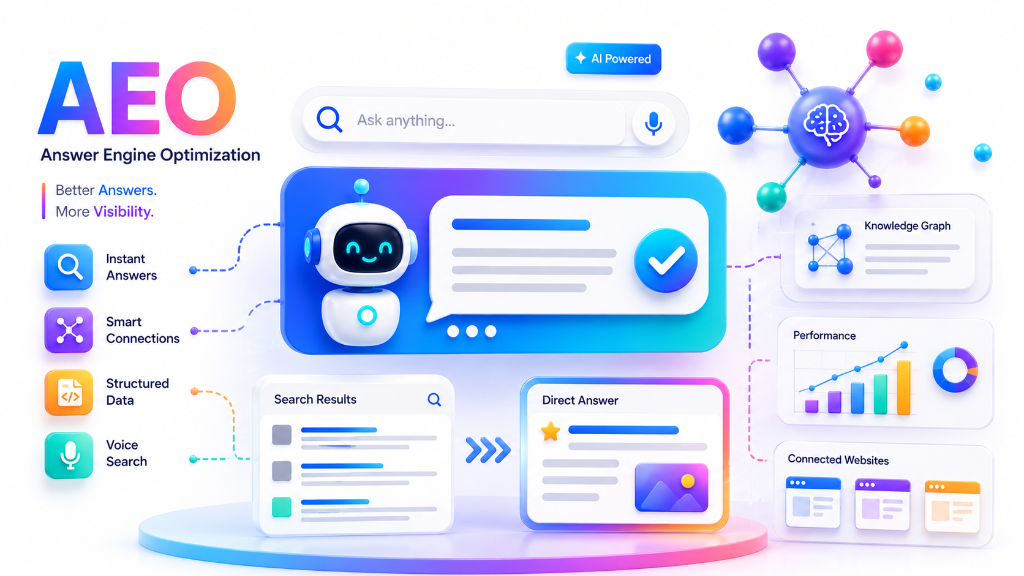
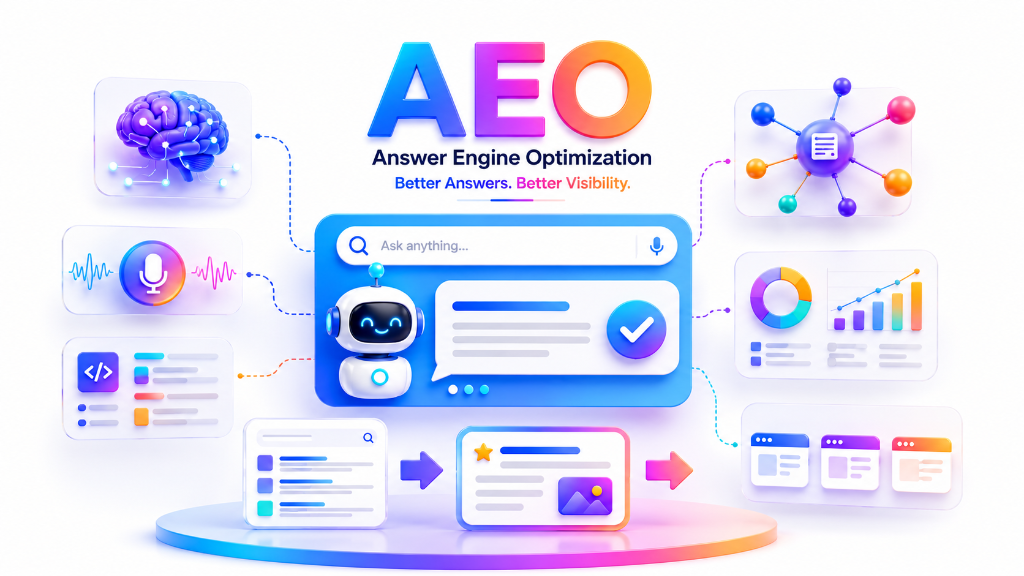
feat: add YouTube SEO and YouTube Ads visuals, update mobile subservices graphics, and fix services dynamic route 404

diff --git a/src/app/services/[id]/page.js b/src/app/services/[id]/page.js
@@ -2,7 +2,7 @@
 
 import React, { useState, useEffect, useRef, use } from "react";
 import Link from "next/link";
-import { useRouter } from "next/navigation";
+import { useRouter, useParams } from "next/navigation";
 import Header from "../../components/Header";
 import GlobalFooter from "../../components/GlobalFooter";
 // Crisp Inline SVG Logo Component for Footer
@@ -478,7 +478,7 @@ const SERVICES_DETAIL_DATA = {
     bannerTitle: "YouTube SEO Company in Hyderabad",
     bannerDesc: "Dominate video recommendation algorithms. We optimize metadata, playlists, descriptions, and closed captions to rank your channel organically.",
     bannerBadge: "✓ YouTube Search Domination | ⭐ Rated 5/5 by Creators & Brands",
-    heroVisual: "/images/hero/youtube-seo.png",
+    heroVisual: "/images/hero/youtube-seo.jpg",
     subtypesTitle: "",
     subtypesDesc: "",
     row1Image: "https://images.unsplash.com/photo-1611162617213-7d7a39e9b1d7?auto=format&fit=crop&w=800&q=80",
@@ -501,7 +501,7 @@ const SERVICES_DETAIL_DATA = {
     bannerTitle: "YouTube Ads Management Agency in Hyderabad",
     bannerDesc: "Build and scale high-ROAS visual video campaigns. We manage scripthooks, precise channel placements, and landing page conversion funnels.",
     bannerBadge: "✓ High-ROI YouTube Ads Setup | ⭐ Rated 5/5 by E-commerce Brands",
-    heroVisual: "/images/hero/youtube-ads.png",
+    heroVisual: "/images/hero/youtube-ads.jpg",
     subtypesTitle: "",
     subtypesDesc: "",
     row1Image: "https://images.unsplash.com/photo-1551836022-8b2858c9c69b?auto=format&fit=crop&w=800&q=80",
@@ -531,10 +531,10 @@ const PACKAGE_MAPPING = {
   "google-ads": { category: "Digital Marketing Packages", plan: "Google Ads/PPC Ads" }
 };
 
-export default function ServiceDetailPage({ params: paramsPromise }) {
+export default function ServiceDetailPage() {
   const router = useRouter();
-  const params = use(paramsPromise);
-  const { id } = params;
+  const params = useParams();
+  const id = params?.id;
   const [activeFaq, setActiveFaq] = useState(0);
 
   // Package Unlock Modal States
